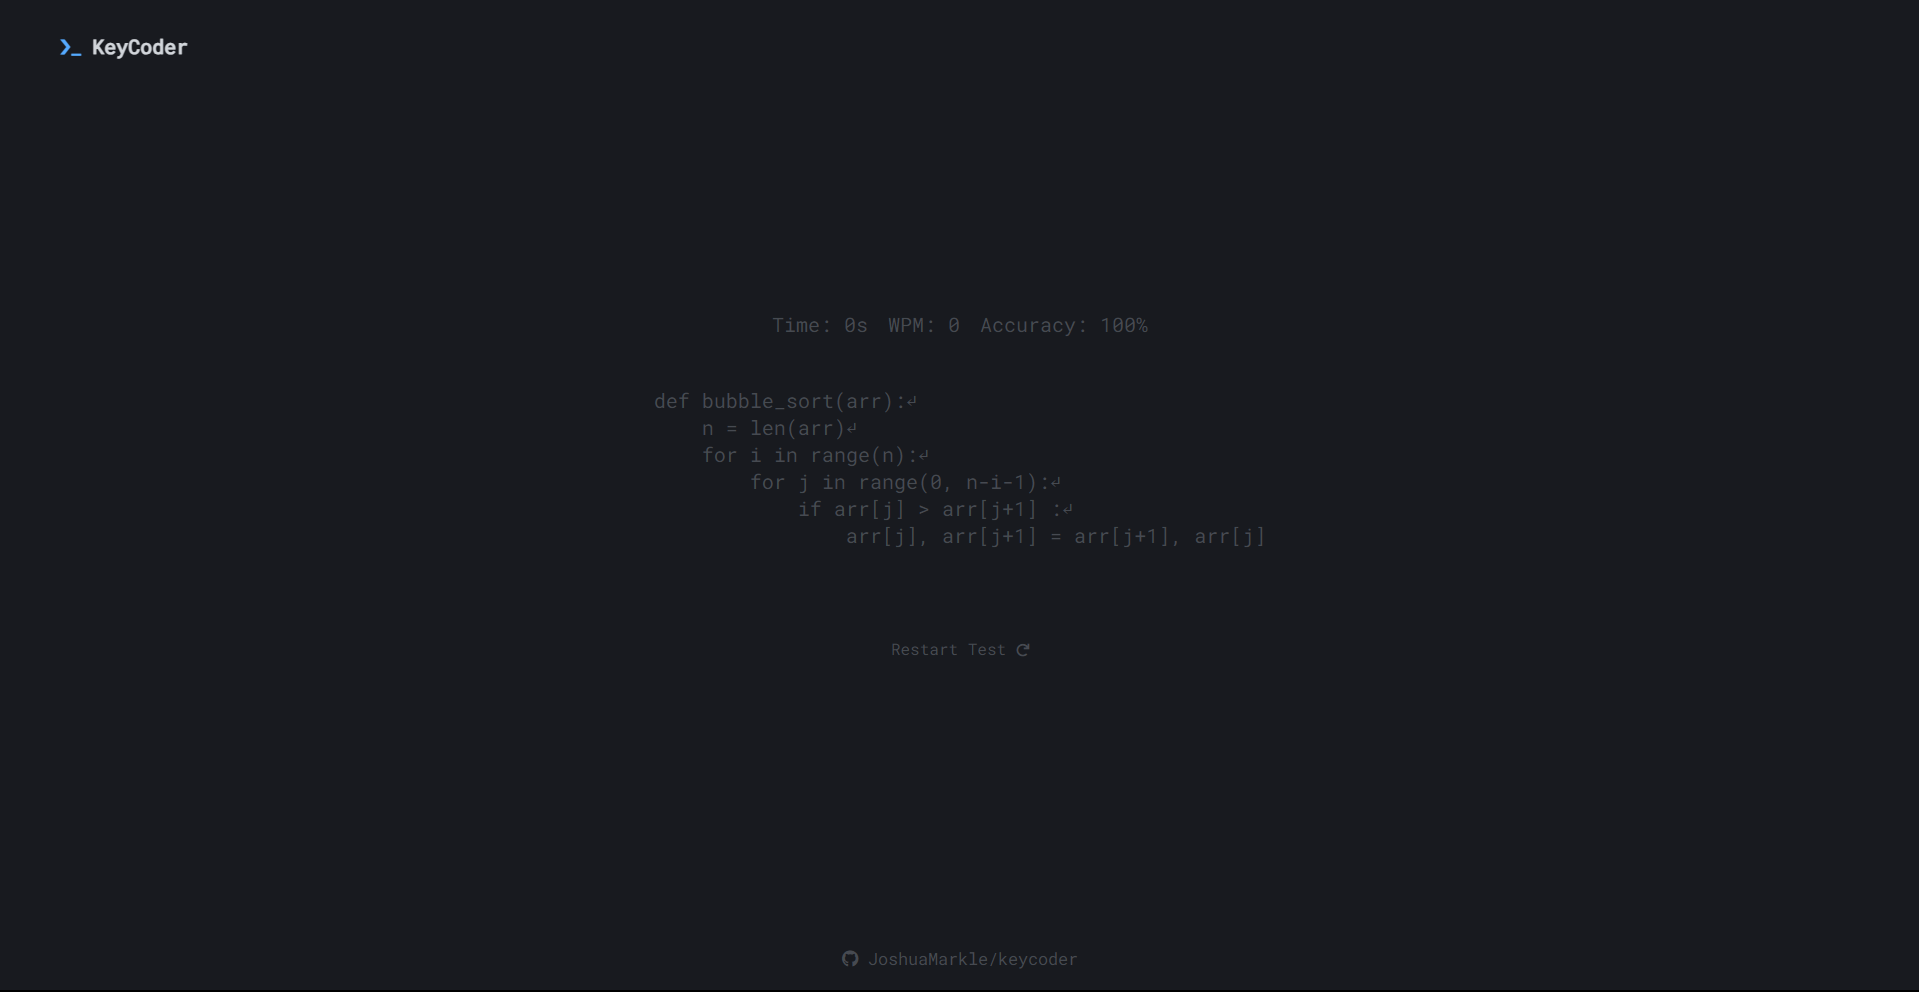
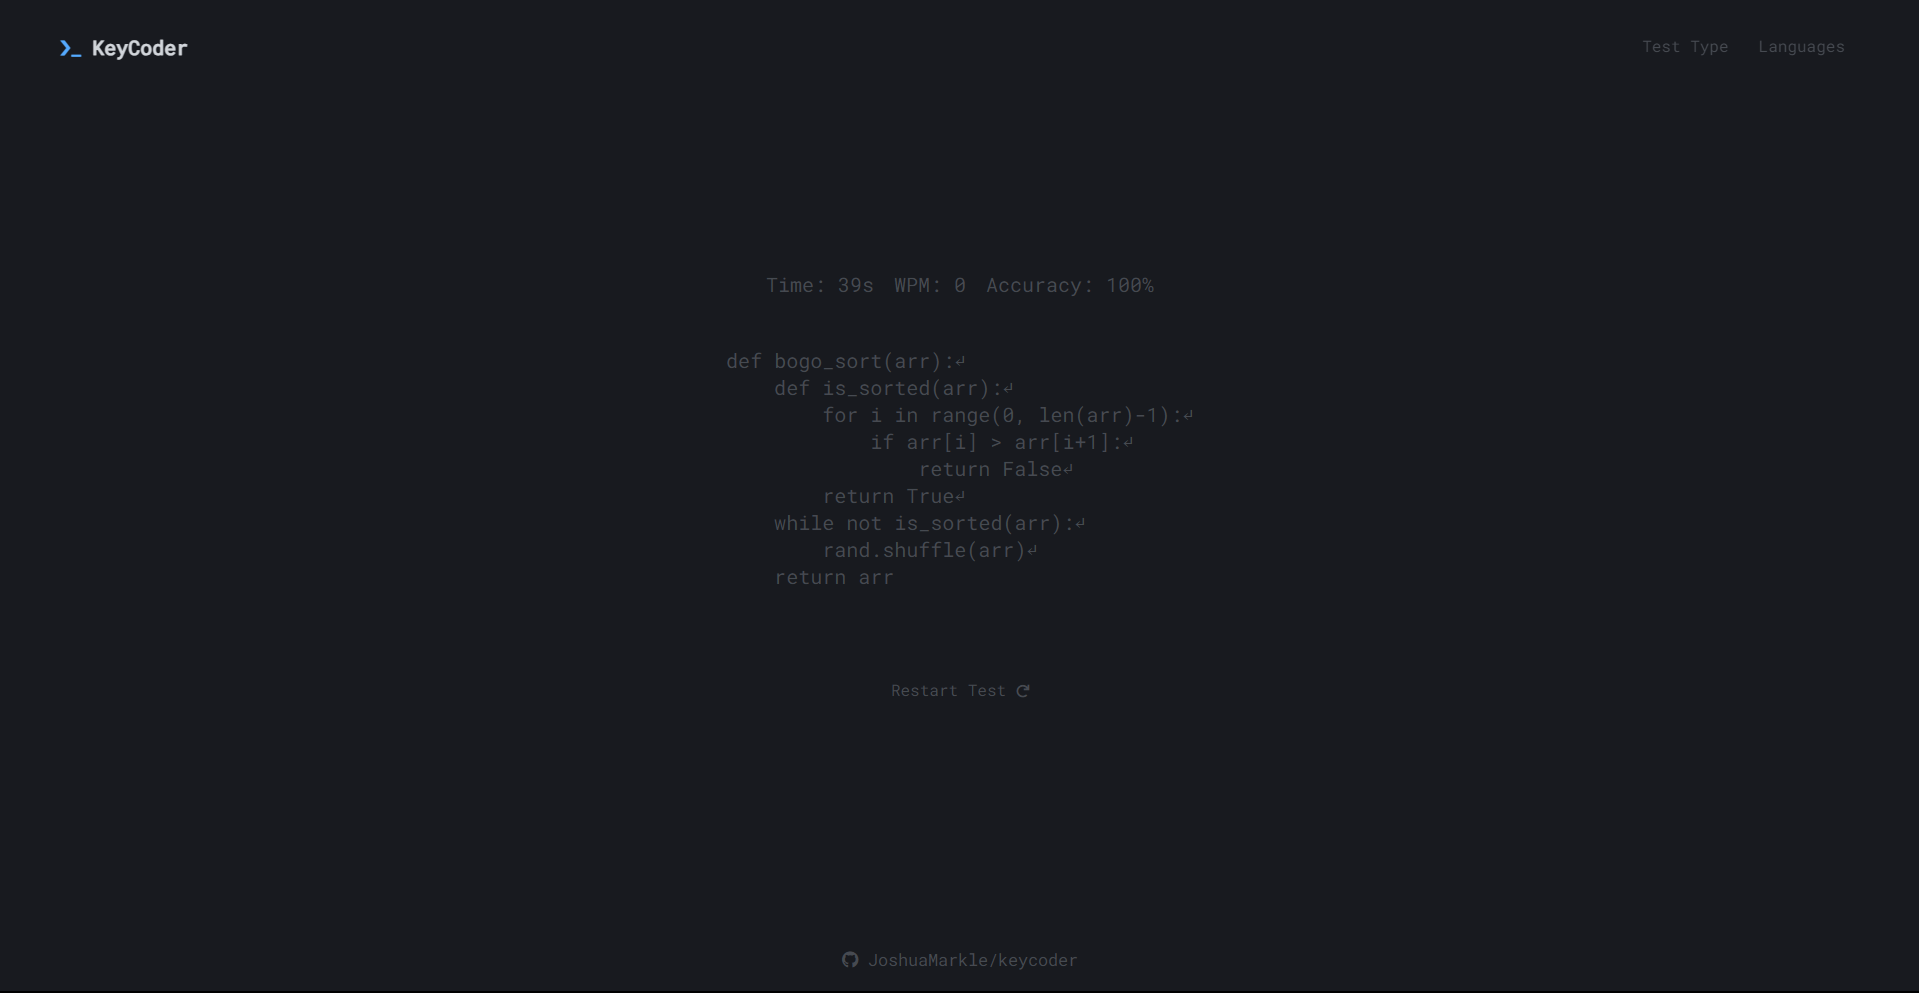
Update README

diff --git a/README.md b/README.md
@@ -4,8 +4,12 @@
 
 ## Features
 
-- **Programming-Specific Tests:** Exercises include a variety of code snippets in different programming languages
-- **Minimalistic Design:** A clutter-free environment that lets you focus on improving your typing skills.
+- **Algorithms:** Exercises include a variety of code snippets in different programming languages
+- **Words Gamemode:** A unique arrangement of words from the language of your choice
+- **Minimalistic Design:** A clutter-free environment that lets you focus on improving your typing skills
+- **5 Supported Languages:** Mainly python and c++ currently
+- **Live Stats:** WPM, Accuracy, and Time Passed
+- And many more in the making
 
 ![Screenshot](/doc/screenshot.png)
 
